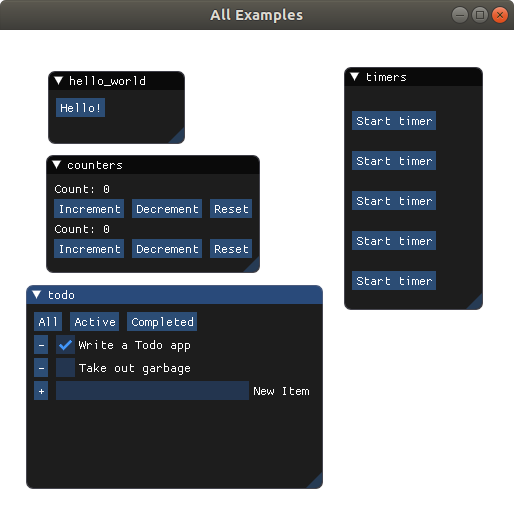
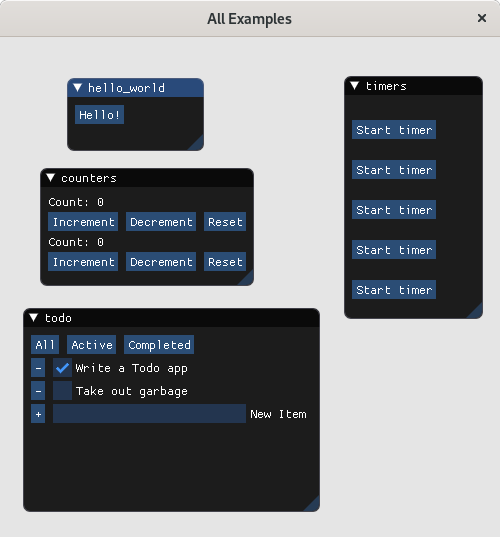
Update the sphinx documentation

diff --git a/concur/core.py b/concur/core.py
@@ -1,9 +1,14 @@
 
-from imgui import push_id, pop_id
 import queue
+from typing import Generator, Any, Iterable, List, Callable, Tuple
+from imgui import push_id, pop_id
+from asyncio import Future
 
 
-def orr(elems):
+Widget = Generator[None, None, Any]
+
+
+def orr(elems: Iterable[Widget]) -> Widget:
     """ Chain elements in space, returning the first event fired. """
     stop = False
     value = None
@@ -24,9 +29,9 @@ def orr(elems):
             yield
 
 
-def multi_orr(elems):
+def multi_orr(elems: Iterable[Widget]) -> Widget:
     """ Chain elements in space, returning all the events fired as a list """
-    events = []
+    events: List = []
     while events == []:
         for i, elem in enumerate(elems):
             try:
@@ -40,7 +45,7 @@ def multi_orr(elems):
     return events
 
 
-def forever(elem_gen, *args, **kwargs):
+def forever(elem_gen: Callable[..., Widget], *args, **kwargs) -> Widget:
     """ Repeat an element forever.
 
     Function generating the element must be passed as the first argument;
@@ -56,13 +61,13 @@ def forever(elem_gen, *args, **kwargs):
 
 
 
-def lift(f, *args, **argv):
+def lift(f: Callable[..., Any], *args, **argv) -> Widget:
     while True:
         f(*args, **argv)
         yield
 
 
-def tag(tag_name, elem):
+def tag(tag_name: Any, elem: Widget) -> Widget:
     while True:
         try:
             next(elem)
@@ -71,7 +76,7 @@ def tag(tag_name, elem):
             return tag_name, e.value
 
 
-def stateful(elem, initial_state):
+def stateful(elem: Callable[[Any], Widget], initial_state: Any) -> Widget:
     state = initial_state
     while True:
         state = yield from elem(state)

diff --git a/concur/widgets.py b/concur/widgets.py
@@ -1,7 +1,8 @@
 
+from typing import Iterable, Any, Tuple
 import imgui
 
-from concur.core import orr, lift
+from concur.core import orr, lift, Widget
 
 
 def orr_same_line(elems):
@@ -17,7 +18,21 @@ def orr_same_line(elems):
     return orr(intersperse(same_line(), elems))
 
 
-def window(title, elems, position=None, size=None, flags=0):
+def window(title: str,
+           elems: Iterable[Widget],
+           position: Tuple[int, int] = None,
+           size: Tuple[int, int] = None,
+           flags: int = 0) -> Widget:
+    """ Create a window with a given list of ``elems`` inside.
+
+    Wraps `imgui.begin`, as well as multiple sequential calls to ImGui such as `set_next_window_position`.
+
+    :param title: window title
+    :param elems: a list of elements to put inside the window
+    :param position: position of the upper-left window corner
+    :param size: the size of the window
+    :param flags: window flags
+    """
     while True:
         imgui.push_id(title)
         if position is not None:
@@ -83,6 +98,13 @@ def interactive_elem(elem, name, *args, **kwargs):
             return (tag, value)
         else:
             yield
+
+
+def key_pressed(name, key_index, repeat=True):
+    while True:
+        if imgui.is_key_pressed(key_index, repeat):
+            return name, None
+        yield
 
 
 def text(s):

diff --git a/examples/keypress.py b/examples/keypress.py
@@ -6,15 +6,9 @@ import imgui
 import glfw
 
 
-def key_press(key_index, repeat=True, tag=None):
-    while True:
-        if imgui.is_key_pressed(key_index, repeat):
-            return tag
-        yield
-
 def app():
     while True:
-        key = yield from c.orr([key_press(glfw.KEY_K)])
+        key, _ = yield from c.orr([c.key_pressed("K", glfw.KEY_K)])
         yield
         print(key)
 

diff --git a/concur/extras/widgets.py b/concur/extras/widgets.py
@@ -12,10 +12,3 @@ def simple_image(tex_id, w, h):
     uvb = 1, 1
     draw_list = imgui.get_window_draw_list()
     draw_list.add_image(tex_id, (pos.x, pos.y), (pos.x + w, pos.y + h), uva, uvb);
-
-
-def key_pressed(name, key_index, repeat=True):
-    while True:
-        if imgui.is_key_pressed(key_index, repeat):
-            return name, None
-        yield

diff --git a/concur/integrations/glfw.py b/concur/integrations/glfw.py
@@ -25,7 +25,7 @@ def main(view, name, width, height, maximized=False):
         except StopIteration:
             exit(1)
 
-        gl.glClearColor(1., 1., 1., 1)
+        gl.glClearColor(0.9, 0.9, 0.9, 1)
         gl.glClear(gl.GL_COLOR_BUFFER_BIT)
 
         imgui.render()

diff --git a/docs/conf.py b/docs/conf.py
@@ -165,3 +165,5 @@ texinfo_documents = [
 
 
 # -- Extension configuration -------------------------------------------------
+
+autodoc_typehints = 'none'

diff --git a/examples/all.py b/examples/all.py
@@ -1,3 +1,4 @@
+#!/usr/bin/env python3
 
 import concur as c
 import concur.integrations.glfw as window

diff --git a/docs/introduction.md b/docs/introduction.md
@@ -1,0 +1,57 @@
+
+# Introduction
+
+UI components in Concur are represented by generators, henceforth called **widgets**. Internally, widgets do three things:
+
+* Call ImGui commands to draw stuff to screen
+* When the drawing is done, `yield` and pass control flow upstream
+* On user interaction, they `return result`, where result is a value representing user action and/or widget state.
+
+A simple button widget can be implemented as follows:
+
+```python
+def button(text):
+    while True:
+        is_pressed = imgui.button(text): # Draw the button
+        if is_pressed:
+            return 123  # Return an arbitrary value
+        yield           # Drawing is done.
+```
+
+The resulting widget can be displayed using `yield from`, optionally collecting its return value.
+
+```python
+value = yield from button("Click me")
+assert value == 123
+```
+
+This shows the most interesting property of Concur: **widgets exist only until they are interacted with.** This enables trivial composition in time by simply chaining the statements. There must be a `yield` between the buttons to properly clear the screen.
+
+```python
+yield from button("One Button")
+yield
+yield from button("Another Button")
+```
+
+This creates one button, and after it is clicked, another button is created. If the code above isn't in a loop or in another widget (see below), there is nothing more to do after clicking the second button and the application is closed.
+
+Composition in space (that is, rendering multiple widgets at once) is done using the `concur.orr` combinator. The result of the composition is yet another widget:
+
+```python
+pair = concur.orr([button("First"), button("Second")])
+yield from pair # display `pair` as a normal widget
+```
+
+The result of `concur.orr`  is returned as soon as any child widget returns, passing the return value along. How can we tell which button was pressed? We can't, they must simply return different values. In fact, buttons in Concur normally return their identifier instead of `None` to be readily composable. By convention, primitive widgets return a tuple `(identifier, value)`. For example, built-in buttons can be composed like this:
+
+```python
+pair = concur.orr([concur.button("First"), concur.button("Second")])
+if pair == "First", _:
+    print("first!")
+if pair == "Second", _:
+    print("second!")
+```
+
+Note that containers (such as a window) are widgets too, with the same semantics. They take as an argument a list of other widgets that will be drawn inside.
+
+That's it for now. Play around with it. You will discover that these handful of concepts go a *long* way, and can be used to create even large UIs in a straightforward and clear manner. As a starting point, you can use the [examples](examples).

diff --git a/docs/index.md b/docs/index.md
@@ -1,0 +1,18 @@
+
+<h1 align="center">
+  Concur for Python
+</h1>
+
+<img class="align-center" src="https://raw.githubusercontent.com/ajnsit/purescript-concur/master/docs/logo.png" height="100">
+
+Concur is a Python UI framework based on synchronous generators.
+
+It is a port of [Concur for Haskell](https://github.com/ajnsit/concur) and [Concur for Purescript](https://github.com/ajnsit/purescript-concur).
+
+Concur can be thought of as a layer on top of [PyImGui](https://github.com/swistakm/pyimgui), which is a set of bindings for the [ImGui](https://github.com/ocornut/imgui) UI library. It helps you to get rid of unprincipled code with mutable state, and lets you build structured and composable abstractions.
+
+A discussion of Concur concepts can also be found in the [Documentation for the Haskell/Purescript versions](https://github.com/ajnsit/concur-documentation/blob/master/README.md). This obviously uses Haskell/Purescript syntax and semantics, but many of the concepts will apply to the Python version.
+
+Being an abstraction over ImGui, Concur is best used for debugging, prototyping and data analysis, rather than user-facing applications.
+
+<img class="align-center" src="_static/screenshot.png">
